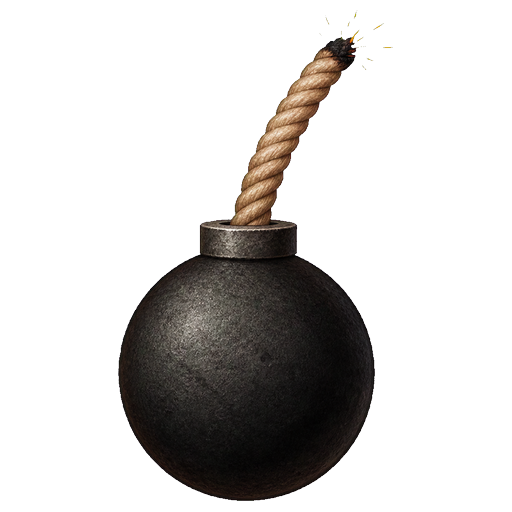
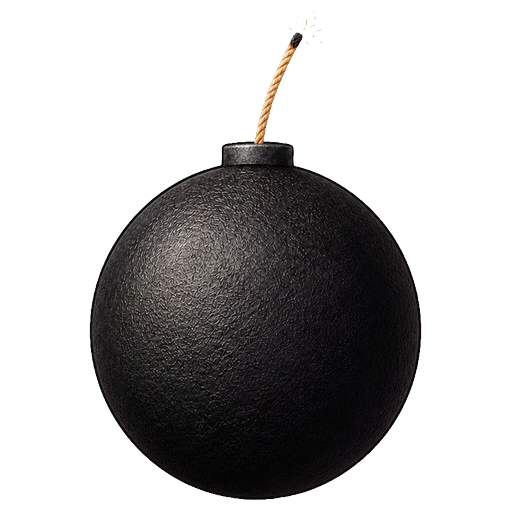
HUDの火薬玉を細い導火線の絵へ差し替える
前回生成したものは導火線が玉の直径の1/4ほどあり、火縄ではなく船の綱に見えていた
(太さ指定を1/8にした私の誤り)。1/16で描き直し、クロマキーから透過へ抜いて
512x512の正方形へ収める(他の忍具アイコンと同じ体裁。長方形のままだと
drawWeaponIcon の正方形枠へ引き伸ばされて潰れる)。
完全透明の画素は RGB も中和しておく ― 緑を残すと縮小描画の補間で縁に滲む。

Changed region(s): [[0.1562, 0.0625, 0.8438, 0.9688], [0.3438, 0.9375, 0.4375, 0.9688], [0.4375, 0.9688, 0.5, 1.0]]

diff --git a/js/ui.js b/js/ui.js
@@ -48,7 +48,7 @@ const BGM_ICON_PATHS = {
 };
 const WEAPON_ICON_PATHS = {
     '手裏剣': './images/hud_weapons/shuriken.png?v=20260718-6',
-    '火薬玉': './images/hud_weapons/bomb.png?v=20260811-5',
+    '火薬玉': './images/hud_weapons/bomb.png?v=20260811-6',
     '大槍': './images/hud_weapons/spear.png?v=20260718-6',
     '二刀流': './images/hud_weapons/dual.png?v=20260718-3',
     '鎖鎌': './images/hud_weapons/kusarigama.png?v=20260719-1',
